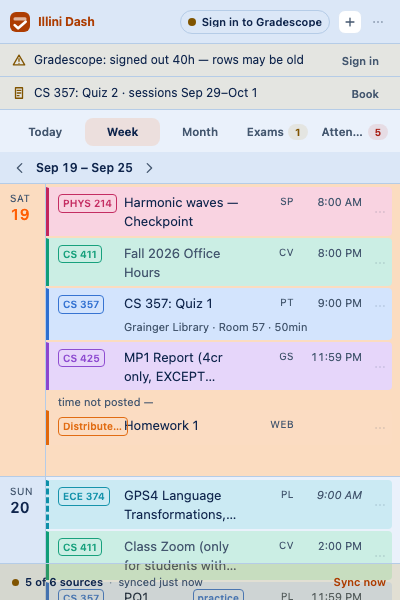
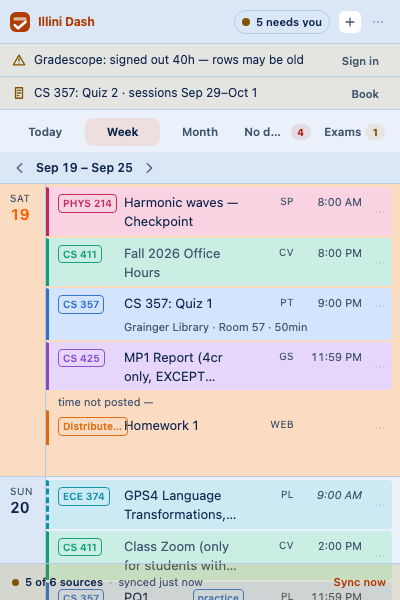
Wave 12 / W4 recorded, with the captures that verify it
The suggestion row's buttons were being laid out over its provenance sentence —
the inline styles that used to hold that line went with the move, and the first
dark capture of the screen showed it. Fixed in popup-screens.css.

The banners are hidden while the Needs-you screen is open: its first line is
the same `staleNotice` sentence the stale banner draws, and both on screen at
once is the same fact twice.

And the first-run spacing is the mock's minus a couple of pixels per block,
because at the mock's own spacing "Find my deadlines" sat 687px down a 600px
window.

Changed region(s): [[0.45, 0.03, 0.81, 0.06], [0.6, 0.21, 0.78, 0.24], [0.81, 0.21, 0.96, 0.24]]

diff --git a/public/popup-screens.css b/public/popup-screens.css
@@ -33,7 +33,17 @@
  */
 .needsyou #tabs,
 .needsyou #filters,
-.needsyou #nav { display: none; }
+.needsyou #nav,
+/*
+ * …and the banners, which on this screen are the same fact twice.
+ *
+ * The stale-source banner is the sentence this screen opens with, drawn from
+ * the same `staleNotice`; leaving both on screen means the first two lines of
+ * the Needs-you screen say "Gradescope signed you out" one above the other. The
+ * booking strip goes with them — a booking window is the calendar's business,
+ * and it comes straight back on ‹ back.
+ */
+.needsyou #banners { display: none; }
 
 /* ---- Needs you (D2, mock 1e) -------------------------------------------- */
 
@@ -106,8 +116,20 @@
 .needsyou--source-detail.is-err { color: var(--err); }
 .needsyou--source .btn { flex: none; }
 
-/* The provenance line on a suggestion row: one clipped line, always. A
-   suggestion whose buttons wrap below the fold is one nobody answers. */
+/*
+ * A suggestion's bottom line: provenance, then Add and Ignore, on one row.
+ *
+ * `.row--detail` is one clipped line of prose, so without this the buttons are
+ * laid out *over* the sentence — which is what the first dark capture of this
+ * screen showed. In `popup-screens.css` rather than as inline styles on the
+ * element, which is where it lived while `popup.css` was owned by another
+ * change.
+ */
+.needsyou .row--suggestion-actions { display: flex; align-items: center; gap: 6px; }
+.needsyou .row--suggestion-actions .btn { flex: none; }
+
+/* The provenance itself: one clipped line, always. A suggestion whose buttons
+   wrap below the fold is one nobody answers. */
 .needsyou--from {
   flex: 1 1 auto; min-width: 0;
   overflow: hidden; text-overflow: ellipsis; white-space: nowrap;
@@ -125,14 +147,21 @@
 
 /* ---- First run (D12, mock 1d) ------------------------------------------- */
 
-.setup--page { padding: 18px 14px 16px; display: flex; flex-direction: column; }
-.setup--mark { margin-bottom: 12px; }
-.setup--mark .appmark { width: 34px; height: 34px; border-radius: 7px; }
+/*
+ * Tighter than the mock's 20px, because the mock is a card on a page and this
+ * is a 600px window: at the mock's spacing "Find my deadlines" sat 687px down,
+ * and the one control that has to be found was the one below the fold (UI rule
+ * 8). Every value below is the mock's minus a couple of pixels; nothing is a
+ * percentage and nothing is a viewport unit.
+ */
+.setup--page { padding: 14px 14px 14px; display: flex; flex-direction: column; }
+.setup--mark { margin-bottom: 8px; }
+.setup--mark .appmark { width: 30px; height: 30px; border-radius: 7px; }
 .setup--title {
-  font-size: 18px; font-weight: 800; letter-spacing: -.3px; line-height: 1.25;
+  font-size: 17px; font-weight: 800; letter-spacing: -.3px; line-height: 1.25;
   color: var(--brand-mark); margin: 0 0 6px;
 }
-.setup--blurb { font-size: 12.5px; line-height: 1.55; color: var(--muted); margin: 0 0 16px; }
+.setup--blurb { font-size: 12.5px; line-height: 1.5; color: var(--muted); margin: 0 0 12px; }
 
 /* Same list card as the source list, so the two screens read as one object. */
 .setup--list {
@@ -144,7 +173,7 @@
 }
 .setup--row {
   display: flex; align-items: center; gap: 10px;
-  padding: 11px 13px; margin: 0; border: 0;
+  padding: 9px 12px; margin: 0; border: 0;
   background: var(--surface-raised);
   flex-wrap: wrap;
 }
@@ -157,8 +186,8 @@
    nothing on it to switch — only somewhere to go. */
 .setup--row-quiet .setup--name { font-weight: 500; }
 .setup--states { display: flex; align-items: center; gap: 6px; flex-wrap: wrap; margin-left: auto; }
-.setup--summary { font-size: 11.5px; color: var(--muted); margin: 12px 0 0; }
-.setup--actions { display: flex; gap: 8px; align-items: center; flex-wrap: wrap; margin-top: 14px; }
+.setup--summary { font-size: 11.5px; color: var(--muted); margin: 10px 0 0; }
+.setup--actions { display: flex; gap: 8px; align-items: center; flex-wrap: wrap; margin-top: 12px; }
 /* The primary button is the one thing on this screen that has to be found, so
    it takes the width the mock gives it rather than shrinking to its label. */
 .setup--go { flex: 1 1 auto; justify-content: center; height: 40px; font-size: 13px; }

diff --git a/src/ui/popup/shell.ts b/src/ui/popup/shell.ts
@@ -81,8 +81,10 @@ import {
  * existed only in the High-contrast theme), the one that was clickable looked
  * exactly like the five that were not, and nobody scrolled to the line.
  *
- * Everything the pill says comes from `healthPill`, which derives it from
- * `summarize()` — so it cannot claim a source is fine when nothing was fetched.
+ * Everything the pill says comes from `needsYouPill` (D2), which derives every
+ * branch from `summarize()` — so it cannot claim "All clear" over sources that
+ * were never fetched. `healthPill` is still the wording for *which* source
+ * broke, and the Needs-you screen is where that is printed, one row each.
  *
  * **The pill's action button is gone from the bar.** It existed because the
  * pill was the only thing up here that could be pressed and "Gradescope

diff --git a/PROGRESS.md b/PROGRESS.md
@@ -7,6 +7,61 @@ Spec: SPEC.md. Build order §10, gates §9. Detailed evidence lives in `docs/`.
 **Steps 1–12 are done. G0–G3 have passed. G4 and G5 are Sushi's and cannot start
 from here.**
 
+## Wave 12 / W4: the header pill opens a screen — 2026-09-19
+
+**2065 tests, unchanged — the suite does not import the popup.** Verified by
+`npm run typecheck`, `npm run build`, `npm test`, and `npm run shots -- popup` in both
+modes (dark first).
+
+**The pill (D2).** `renderHealth` no longer writes its own sentence: it takes the items
+and asks `needsYouPill({ sources, syncing, overdue, suggestions })`, so "2 late" outranks
+"1 needs you" and both outrank "All clear" by one rule in core rather than by two
+copies — the pill and the screen it opens count the same `overdueItems`. `healthPill` is
+untouched and still owns which source broke; nothing in the popup calls it any more.
+Signature: `renderHealth(sources, items, now)` — `lastSyncAt` is gone from it, which is
+worker rule 2 removing the last field the header could have lied from.
+
+**The Needs-you screen (D2, mock 1e)** is `screens/needs-you.ts`, **in document flow**,
+replacing `#view` with `.needsyou` on `body` hiding the tabs, the chips and the date nav
+the way `.setup` does. It replaces the health popover, which is the point: a floating
+panel contributes no height to the box Chrome measures, and that list shipped clipped
+half way down its fifth row. Order is the mock's — the amber `staleNotice` sentence with
+its `actionFor` button, **Late** (the Attention tab's Overdue group, each row followed by
+*Mark done* / *Hide* through `applyOverrideAction`), **Found in a post** (`renderSuggestions`
+moved over unchanged: Add / Ignore, the provenance line, the verbatim span as the
+tooltip), **Sources** (one card, `sourceRows` + `actionButton`), and the "Nothing was
+dropped while X was out" note. `state.screen` holds it; ‹ back and Escape close it and
+return focus to the pill; it re-renders from fresh state on every draw rather than
+holding the redraw, because every sentence on it is a claim about the store.
+
+**One deliberate deviation from mock 1e.** Its source rows read "6 courses · 2m ago" and
+"31 items"; core counts neither, so the detail line says what `sourceRows` gives —
+the state word and "last read 2 min ago". A count this file invented is a count the
+student would trust (worker rule 3).
+
+**First run (D12, mock 1d).** `renderSetup` restyled to the mock: the mark, "One
+calendar, nothing to maintain", the two-sentence blurb, the pin card (unchanged, still
+full-view-only and still `PIN_DISMISSED_KEY`), a "Where to look" list card, **Find my
+deadlines** and a hint line. The switches are **grouped** as the mock groups them —
+PrairieLearn and PrairieTest share one, which sends `set-source-enabled` per source and
+one `sync` — and a pair shows one chip each, because "PrairieLearn connected, PrairieTest
+needs a sign-in" is two facts. Piazza & Campuswire and Course websites are named as the
+mock names them but carry a **Settings** button rather than a switch: both need a host
+permission granted in the click on a page that stays open, which a popup is not.
+"Find my deadlines" now runs `app.runSync()` between `complete-setup` and
+`recheckLogins`, and its `send` has the `.catch` the old one did not.
+
+**Two findings from the inventory.** F10's missing `.catch` on the header's .ics export
+was already fixed when the shell was split (`shell.ts`, `Download .ics`) — nothing to do,
+and the inventory line is stale. The dead `.book` / `.book--text` / `.book--go` rules are
+deleted from `popup.css`; the booking strip has been a `.banner-line` since D-banners.
+
+**Not preserved, deliberately:** `openHealthPopover` and `renderSourceRow` are deleted —
+the screen is the source list now, and the popover's per-source facts survive as the
+pill's tooltip (`pillTooltip`, built from the same `sourceRows`). The pill's
+`aria-haspopup="dialog"` is gone with it; `aria-expanded` stays and now tracks the
+screen.
+
 ## Wave 12 / W0: popup.ts split, and the new shell — 2026-09-19
 
 **1970 tests, unchanged — the suite does not import the popup, so none of this is pinned
